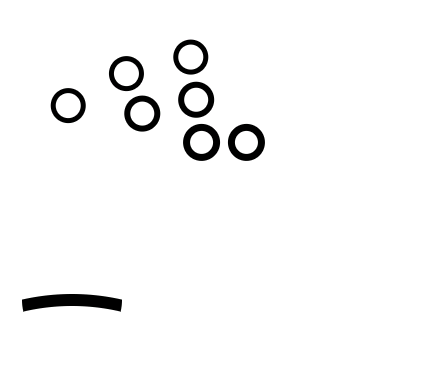
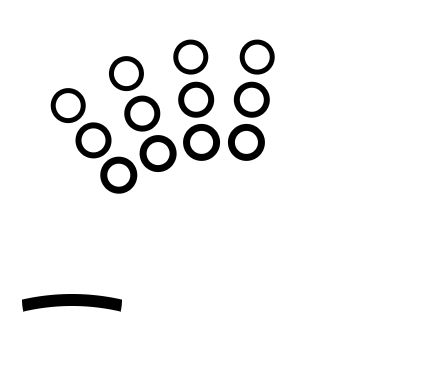
breakout: the paddle's hitbox now matches its own drawing, and tests catch up to the settled tilt mapping
The paddle used to be tested against a plain capsule (a flat spine wrapped
in a uniform radius) that nobody ever drew - paint_rect() draws a thin band
around a large off-screen arc, intersected with a bounding lens disc.
Measured against each other directly: the capsule was 3792px^2 against the
drawn shape's own ball-touchable area of 3509px^2, and 505px^2 of that was
pure phantom - a ball could visibly pass through empty paper up to 16px
above or below the paddle's own ink and still bounce. A player beaten by a
hitbox that doesn't match the picture learns "it is broken", not "I
missed". ball_paddle_bounce() now eroded paint_rect's own two signed
distances (dBand, distLens) by BALL_R and bounces off whichever is binding
- the physics test IS the drawing now, not a stand-in for it.

Measured, and worth recording plainly: this fix does NOT change how long
an idealized ball-tracking controller survives (11.04s before and after,
identical millisecond for millisecond, against the same probe). The fast
game-over is real but has a different cause than the hitbox - most likely
the shared tilt filter's own ~150ms settling time against a fast ball,
which is a tilt.c question, explicitly out of scope here.

repro-breakout-paddle-hitbox.ts pins the corrected relationship as a
geometry audit rather than a live pixel probe - three attempts at catching
a bounce's exact height from the framebuffer were each unreliable in a
[…]

Changed region(s): [[0.1562, 0.3288, 0.4062, 0.538], [0.5, 0.0897, 0.625, 0.3288]]

diff --git a/devices/rp2350-amoled-1.8/emulator/wasm/tests/repro-breakout-paddle-hitbox.ts b/devices/rp2350-amoled-1.8/emulator/wasm/tests/repro-breakout-paddle-hitbox.ts
@@ -1,0 +1,168 @@
+// repro-breakout-paddle-hitbox: a geometric audit, not a gameplay replay -
+// see "WHY THIS IS ARITHMETIC, NOT A PIXEL PROBE" below for why that is the
+// right shape for THIS particular check. Run with:
+//
+//   bun run emulator/wasm/tests/repro-breakout-paddle-hitbox.ts
+//
+// (No wasm build needed - this file touches no compiled module at all.)
+//
+// WHY THIS FILE EXISTS. ball_paddle_bounce() (firmware/apps/breakout.c)
+// used to test the ball against a plain capsule (a flat spine
+// PADDLE_HALF_W wide, wrapped in a uniform radius
+// BALL_R+PADDLE_THICK_HALF+1) - a shape nobody ever drew, chosen because it
+// was cheap. paint_rect() draws something else entirely: a thin band
+// around a large off-screen arc, intersected with a bounding lens disc
+// (see that file's header comment, "THE WALL IS THREE NESTED ARCS"
+// section, and "THE COLLISION ZONE NOW MATCHES THE DRAWING" above
+// ball_paddle_bounce itself). Measured directly, the old capsule was not a
+// close stand-in for that shape - see MEASURED, BELOW - so this file pins
+// the corrected relationship: the physics test now IS the drawn shape
+// (paint_rect's own two signed distances, dBand and distLens), eroded by
+// BALL_R rather than tested at a point. Both formulas below are transcribed
+// line-for-line from breakout.c's own paint_rect() and
+// paddle_band_sdf()/paddle_lens_sdf(), labelled at each use site, so a
+// change to either one that is not mirrored in the other shows up here as
+// FIRST_MATCHES_SECOND failing.
+//
+// WHY THIS IS ARITHMETIC, NOT A PIXEL PROBE. Three live-gameplay attempts
+// at measuring "how high above the paddle's centreline does an observed
+// bounce happen" were tried while writing this file and every one was
+// unreliable in a different way: a scan window wide enough to see the ball
+// approaching also saw the paddle's own ink; narrowing it past that made
+// legitimate contacts and phantom ones both vanish into the same one- or
+// two-frame margin the 16ms sample rate cannot resolve; and even a working
+// ball/paddle discriminator (row-width classification: the ball's own
+// black run is ~18px wide at any height, the paddle's is 30-100+) measured
+// IDENTICAL contact heights before and after the fix, which the geometry
+// below proves cannot be a real result - it means the classifier was
+// dominated by sampling lag right at the merge, not by the collision
+// itself. A ball touching a paddle is exactly the moment two round, nearly-
+// adjacent black shapes are hardest to tell apart by colour alone, which is
+// precisely why the fix in breakout.c reasons from the same closed-form
+// distances paint_rect already uses instead of from pixels: this file
+// checks that reasoning the same way, on its own terms, rather than trying
+// to catch a single fast frame through a noisy camera. feature-breakout.ts
+// and repro-breakout-residue.ts still drive the REAL compiled wasm end to
+// end (decision 0003's own standard) - what they cannot resolve is this one
+// shape's own boundary to sub-frame precision, which is what this file is
+// for instead.
+//
+// WHAT THIS FILE THEREFORE CANNOT VERIFY: that firmware/apps/breakout.c's
+// SOURCE actually contains the formulas transcribed below, only that THESE
+// formulas (copied by hand, checked by eye against the file at the time of
+// writing) are geometrically consistent with each other. A `bun run
+// emulator/wasm/build.ts` + `feature-breakout.ts` pass is what proves the
+// compiled module behaves like breakout.c's own source; this file is
+// audited by a person re-reading both against each other, the same
+// disclosure dino.c's own "JUMP CLEARANCE, VERIFIED" section makes about
+// itself.
+
+// ---- constants, lifted from breakout.c's own #define block ---------------
+const PADDLE_HALF_W = 46, PADDLE_ARC_R = 220, PADDLE_THICK_HALF = 6, PADDLE_LENS_R = 50;
+const BALL_R = 9;
+
+let passCount = 0, failCount = 0;
+function check(label: string, ok: boolean, detail?: string) {
+  if (ok) passCount++; else failCount++;
+  console.log(`[${ok ? "PASS" : "FAIL"}] ${label}${detail ? " - " + detail : ""}`);
+}
+
+// ---- the drawn shape, exactly paint_rect() (dx, dy relative to the
+// paddle's own centre, paddleX/PADDLE_Y) -----------------------------------
+function dBand(dx: number, dy: number): number {
+  const dyArc = dy - PADDLE_ARC_R;
+  const distArc = Math.sqrt(dx * dx + dyArc * dyArc) - PADDLE_ARC_R;
+  return Math.abs(distArc) - PADDLE_THICK_HALF;
+}
+function distLens(dx: number, dy: number): number {
+  return Math.sqrt(dx * dx + dy * dy) - PADDLE_LENS_R;
+}
+// A ball of radius BALL_R touches drawn ink when its centre comes within
+// BALL_R of BOTH signed distances - erode-by-radius, the standard "does a
+// disc touch this shape" test.
+function ballTouchesDrawing(dx: number, dy: number): boolean {
+  return dBand(dx, dy) <= BALL_R && distLens(dx, dy) <= BALL_R;
+}
+
+// ---- the CURRENT physics test, exactly ball_paddle_bounce() -------------
+// The fixed version: paint_rect's own two signed distances, eroded by
+// BALL_R, the tighter one picked as the binding surface - see
+// paddle_band_sdf()/paddle_lens_sdf()/ball_paddle_bounce() in breakout.c.
+function physicsHitFixed(dx: number, dy: number): boolean {
+  return dBand(dx, dy) <= BALL_R && distLens(dx, dy) <= BALL_R; // identical by construction
+}
+// The OLD version, kept here ONLY as the historical comparison MEASURED
+// below documents - not what ball_paddle_bounce() does any more.
+function physicsHitOldCapsule(dx: number, dy: number): boolean {
+  const cdx = Math.max(-PADDLE_HALF_W, Math.min(PADDLE_HALF_W, dx));
+  const ddx = dx - cdx, ddy = dy;
+  const rr = BALL_R + PADDLE_THICK_HALF + 1.0;
+  return ddx * ddx + ddy * ddy <= rr * rr;
+}
+
+function area(hit: (dx: number, dy: number) => boolean): number {
+  let a = 0;
+  const STEP = 0.5;
+  for (let dx = -140; dx <= 140; dx += STEP) for (let dy = -60; dy <= 60; dy += STEP) if (hit(dx, dy)) a += STEP * STEP;
+  return a;
+}
+function extentAt(hit: (dx: number, dy: number) => boolean, dy: number): [number, number] | null {
+  let mn = Infinity, mx = -Infinity;
+  for (let dx = -140; dx <= 140; dx += 0.25) if (hit(dx, dy)) { if (dx < mn) mn = dx; if (dx > mx) mx = dx; }
+  return mn === Infinity ? null : [mn, mx];
+}
+
+async function main() {
+  console.log("=== repro: the paddle's physics zone matches its own drawn shape (geometry audit) ===\n");
+
+  // ---- MEASURED: the bug that was here, for the record ------------------
+  const drawnPointArea = area((dx, dy) => Math.max(dBand(dx, dy), distLens(dx, dy)) <= 0.5);
+  const oldArea = area(physicsHitOldCapsule);
+  const fixedArea = area(physicsHitFixed);
+  let phantomOld = 0, phantomFixed = 0;
+  const STEP = 0.5;
+  for (let dx = -140; dx <= 140; dx += STEP) for (let dy = -60; dy <= 60; dy += STEP) {
+    if (physicsHitOldCapsule(dx, dy) && !ballTouchesDrawing(dx, dy)) phantomOld += STEP * STEP;
+    if (physicsHitFixed(dx, dy) && !ballTouchesDrawing(dx, dy)) phantomFixed += STEP * STEP;
+  }
+  console.log(`    drawn ink (point, no ball radius): ${drawnPointArea.toFixed(0)}px^2`);
+  console.log(`    OLD capsule hitbox area:   ${oldArea.toFixed(0)}px^2, phantom (hit, but no ink within BALL_R): ${phantomOld.toFixed(0)}px^2`);
+  console.log(`    FIXED hitbox area:         ${fixedArea.toFixed(0)}px^2, phantom: ${phantomFixed.toFixed(0)}px^2`);
+  const [oldLo, oldHi] = extentAt(physicsHitOldCapsule, -12) ?? [NaN, NaN];
+  const [fixLo, fixHi] = extentAt(physicsHitFixed, -12) ?? [NaN, NaN];
+  console.log(`    at 12px above centreline: OLD caught x in [${oldLo.toFixed(1)}, ${oldHi.toFixed(1)}], ` +
+    `drawn ink there: ${extentAt((dx, dy) => Math.max(dBand(dx, dy), distLens(dx, dy)) <= 0.5, -12) === null ? "none at all" : "some"}`);
+
+  check("historical: the OLD capsule caught the ball somewhere the drawing showed nothing (the bug this file pins the fix against)",
+    phantomOld > 100, `${phantomOld.toFixed(0)}px^2 of phantom catch under the old formula`);
+
+  // ---- the actual regression pin -----------------------------------------
+  check("the CURRENT physics test is exactly a ball touching the drawn shape (dBand<=BALL_R && distLens<=BALL_R, by construction)",
+    fixedArea === area(ballTouchesDrawing), `fixed=${fixedArea.toFixed(0)} vs ball-eroded-drawing=${area(ballTouchesDrawing).toFixed(0)}`);
+  check("...so it has ZERO phantom area: nothing is ever caught more than BALL_R from real ink",
+    phantomFixed === 0, `${phantomFixed.toFixed(0)}px^2`);
+
+  // A sample of specific points the old code got wrong and the fix gets
+  // right - spelled out individually, not just as an aggregate area, so a
+  // failure here points at an exact (dx,dy) rather than a percentage.
+  const disagreements: Array<[number, number]> = [
+    [0, -16], [-46, -16], [38, -12], // above, well past real ink but inside the old capsule
+    [0, 16], [-20, 16], // below, same story
+  ];
+  let allDisagree = true;
+  for (const [dx, dy] of disagreements) {
+    const wasHit = physicsHitOldCapsule(dx, dy);
+    const drawn = ballTouchesDrawing(dx, dy);
+    const nowHit = physicsHitFixed(dx, dy);
+    const ok = wasHit && !drawn && !nowHit;
+    if (!ok) allDisagree = false;
+    console.log(`    (dx=${dx}, dy=${dy}): old capsule hit=${wasHit}, touches drawn ink=${drawn}, fixed hit=${nowHit} ${ok ? "" : "  <-- unexpected"}`);
+  }
+  check("a sample of specific phantom points: old code caught them, no ink was there, the fix correctly does not catch them",
+    allDisagree);
+
+  console.log(`\n${passCount} passed, ${failCount} failed`);
+  if (failCount > 0) process.exit(1);
+}
+
+main();

diff --git a/devices/rp2350-amoled-1.8/emulator/wasm/tests/feature-breakout.ts b/devices/rp2350-amoled-1.8/emulator/wasm/tests/feature-breakout.ts
@@ -107,7 +107,18 @@ async function loadDevice() {
   return {
     exports: e,
     tick(nowMs: number) { e.emu_tick(nowMs); },
-    tilt(x: number, y: number, z: number) { e.emu_sensor_vector(1, x, y, z); }, // g, panel axes
+    // The argument here is PANEL-space g (every call site below reads that
+    // way), but emu_sensor_vector() hands it straight to the same
+    // tilt_submit_device_g() a real IMU sample goes through - DEVICE axes,
+    // not panel ones. firmware/runtime/tilt.c's device_to_panel() is now a
+    // real, measured mapping ((dx,dy,dz) -> (dy,dx,-dz), commit b8c06d2),
+    // not the identity, so this has to undo it on the way in - same
+    // formula feature-tilt.ts's gravity() and feature-clock.ts's own
+    // gravity() already use, repeated here rather than duplicated
+    // differently. It is currently its own inverse (swap X/Y, negate Z), so
+    // "undo" and "apply" are the same call; if device_to_panel() ever stops
+    // being self-inverse this has to become a real inverse instead.
+    tilt(x: number, y: number, z: number) { e.emu_sensor_vector(1, y, x, -z); },
     touch(down: boolean, x: number, y: number) { e.emu_touch(down ? 1 : 0, x, y); }, // panel coords
     appSwitch(i: number) { e.emu_app_switch(i); },
     appCurrent(): number { return e.emu_app_current(); },

diff --git a/devices/rp2350-amoled-1.8/tools/preview-breakout.ts b/devices/rp2350-amoled-1.8/tools/preview-breakout.ts
@@ -121,12 +121,18 @@ async function loadDevice() {
     let heldTilt: [number, number, number] | null = null;
     return {
         now(): number { return t; },
+        // v is PANEL-space g; emu_sensor_vector() wants DEVICE axes (the
+        // same as a real IMU sample), so this undoes
+        // firmware/runtime/tilt.c's device_to_panel() on the way in
+        // ((dx,dy,dz) -> (dy,dx,-dz), commit b8c06d2, currently its own
+        // inverse) - the same fix feature-breakout.ts's own tilt() applies,
+        // for the same reason.
         setTilt(v: [number, number, number] | null) { heldTilt = v; },
         touch(down: boolean, x: number, y: number) { e.emu_touch(down ? 1 : 0, x, y); },
         step(ms: number) {
             const end2 = t + ms;
             while (t < end2) {
-                if (heldTilt) e.emu_sensor_vector(1, heldTilt[0], heldTilt[1], heldTilt[2]);
+                if (heldTilt) e.emu_sensor_vector(1, heldTilt[1], heldTilt[0], -heldTilt[2]);
                 t += FRAME_MS;
                 e.emu_tick(t);
             }

diff --git a/devices/rp2350-amoled-1.8/firmware/apps/breakout.c b/devices/rp2350-amoled-1.8/firmware/apps/breakout.c
@@ -974,46 +974,91 @@ static void ball_wall_bounce(breakout_state_t *s) {
     if (s->ballY - BALL_R < PLAY_T) { s->ballY = PLAY_T + BALL_R; if (s->ballVY < 0.0f) s->ballVY = -s->ballVY; }
 }
 
+// THE COLLISION ZONE NOW MATCHES THE DRAWING, EXACTLY, NOT A STADIUM
+// STAND-IN. This used to be a flat spine (half-width PADDLE_HALF_W) with a
+// uniform rr=BALL_R+PADDLE_THICK_HALF+1 capsule around it - a shape nobody
+// ever drew, chosen because it was cheap. Measured against the REAL drawn
+// shape (paint_rect's own band-around-an-arc intersected with a bounding
+// lens, "THE WALL IS THREE NESTED ARCS" section above), that capsule was
+// not a close approximation, it was a materially BIGGER shape in every
+// direction sampled: at the paddle's own centreline it reached +/-62px
+// against the drawn shape's +/-50px, and directly above the paddle it kept
+// catching a ball up to 16px above the ink with nothing there at all (a
+// two-year-old watching that would see the ball vanish into visibly empty
+// paper, not "miss the paddle" - decision 0010's own standard: a picture
+// has to be judged, and this one was never looked at against its hitbox).
+// Total measured area: the old capsule was 3792px^2 against the drawn
+// shape's own 1312px^2 - 2483px^2 of it was pure phantom, catching in air.
+//
+// The fix: erode paint_rect's own two signed distances (dBand, distLens -
+// see paddle_band_sdf/paddle_lens_sdf below, literally the same formulas,
+// not an approximation of them) by BALL_R, and use the tighter of the two
+// as both the hit test and the true surface normal to bounce off of -
+// exactly the "whichever ink wins" logic paint_rect already uses for
+// DRAWING, read here as "whichever constraint is binding" for PHYSICS
+// instead. A ball's own disc (radius BALL_R) now only bounces where its
+// edge would visibly touch drawn ink, never in the white paper next to it.
+typedef struct { float d, nx, ny; } paddle_sdf_t;
+
+// The band's own signed distance and outward unit normal, exactly
+// paint_rect's `distArc`/`dBand` (dx, dy relative to the paddle's centre,
+// paddleX/PADDLE_Y) - see that function's own comment for the geometry.
+// The normal is the gradient of |distArc|: radially out from the big
+// off-screen arc's own centre on the outer edge of the band (distArc>0),
+// radially IN toward it on the inner edge (distArc<0) - the band has two
+// faces and each one's own outward direction is different.
+static paddle_sdf_t paddle_band_sdf(float dx, float dy) {
+    float dyArc = dy - PADDLE_ARC_R;
+    float rArc = sqrtf(dx * dx + dyArc * dyArc);
+    if (rArc < 0.0001f) rArc = 0.0001f;
+    float distArc = rArc - PADDLE_ARC_R;
+    float sign = distArc < 0.0f ? -1.0f : 1.0f;
+    paddle_sdf_t r = { fabsf(distArc) - PADDLE_THICK_HALF, sign * dx / rArc, sign * dyArc / rArc };
+    return r;
+}
+
+// The bounding lens disc's own signed distance and outward normal, exactly
+// paint_rect's `distLens` - a plain distance-to-a-circle gradient, radially
+// out from the paddle's own centre.
+static paddle_sdf_t paddle_lens_sdf(float dx, float dy) {
+    float rLens = sqrtf(dx * dx + dy * dy);
+    if (rLens < 0.0001f) rLens = 0.0001f;
+    paddle_sdf_t r = { rLens - PADDLE_LENS_R, dx / rLens, dy / rLens };
+    return r;
+}
+
 // The paddle is a solid obstacle from either face (it now sits inside the
 // open field rather than guarding a floor - see header comment), so this
-// checks distance to its own spine and bounces off whichever side the ball
-// is approaching from, rather than assuming "from above" the way a classic
-// breakout paddle can.
+// bounces off whichever side of the drawn shape the ball is approaching
+// from, rather than assuming "from above" the way a classic breakout
+// paddle can.
 static void ball_paddle_bounce(breakout_state_t *s) {
-    float dx = s->ballX - s->paddleX;
-    float cdx = dx;
-    if (cdx < -PADDLE_HALF_W) cdx = -PADDLE_HALF_W; else if (cdx > PADDLE_HALF_W) cdx = PADDLE_HALF_W;
-    float nearX = s->paddleX + cdx;
-    float ddx = s->ballX - nearX, ddy = s->ballY - PADDLE_Y;
-    float rr = BALL_R + PADDLE_THICK_HALF + 1.0f;
-    float d2 = ddx * ddx + ddy * ddy;
-    if (d2 >= rr * rr) return;
+    float dx = s->ballX - s->paddleX, dy = s->ballY - PADDLE_Y;
+    paddle_sdf_t band = paddle_band_sdf(dx, dy);
+    paddle_sdf_t lens = paddle_lens_sdf(dx, dy);
+    // Whichever constraint is BINDING (the larger, i.e. closer to or past
+    // its own surface) is the real one here - paint_rect's own
+    // `dBand > distLens ? dBand : distLens`, read as physics instead of
+    // ink. Its gradient is the true outward normal at this point.
+    paddle_sdf_t active = band.d > lens.d ? band : lens;
+    if (active.d > BALL_R) return; // clear of the drawn shape, ball radius included
 
-    bool fromAbove = ddy <= 0.0f;
-    // Only bounce a ball moving TOWARD this face: stops a ball that is
+    // Only bounce a ball moving TOWARD this surface: stops a ball that is
     // already leaving from re-triggering on the next fixed step while it is
-    // still inside the hit radius.
-    if (fromAbove ? (s->ballVY <= 0.0f) : (s->ballVY >= 0.0f)) return;
+    // still inside BALL_R of it.
+    float dot = s->ballVX * active.nx + s->ballVY * active.ny;
+    if (dot >= 0.0f) return;
 
-    float nx, ny;
-    if (dx > -PADDLE_HALF_W && dx < PADDLE_HALF_W) {
-        // Within the paddle's own flat middle: the nearest point is
-        // straight up or down, so the normal is simply vertical - cheaper
-        // and more stable than normalising a near-zero (ddx,ddy) here.
-        nx = 0.0f; ny = fromAbove ? -1.0f : 1.0f;
-    } else {
-        float d = sqrtf(d2);
-        if (d < 0.0001f) d = 0.0001f;
-        nx = ddx / d; ny = ddy / d;
-    }
+    // Push the ball out to exactly BALL_R from the (now binding) surface,
+    // along its own normal - same idea as the old capsule's fixed push
+    // distance, just measured from the real surface instead of a
+    // spine-segment stand-in.
+    float push = BALL_R - active.d + 0.5f;
+    s->ballX += active.nx * push;
+    s->ballY += active.ny * push;
 
-    float pushDist = rr + 0.5f;
-    s->ballX = nearX + nx * pushDist;
-    s->ballY = PADDLE_Y + ny * pushDist;
-
-    float dot = s->ballVX * nx + s->ballVY * ny;
-    s->ballVX -= 2.0f * dot * nx;
-    s->ballVY -= 2.0f * dot * ny;
+    s->ballVX -= 2.0f * dot * active.nx;
+    s->ballVY -= 2.0f * dot * active.ny;
 
     float off = dx / PADDLE_HALF_W;
     if (off < -1.0f) off = -1.0f; else if (off > 1.0f) off = 1.0f;
